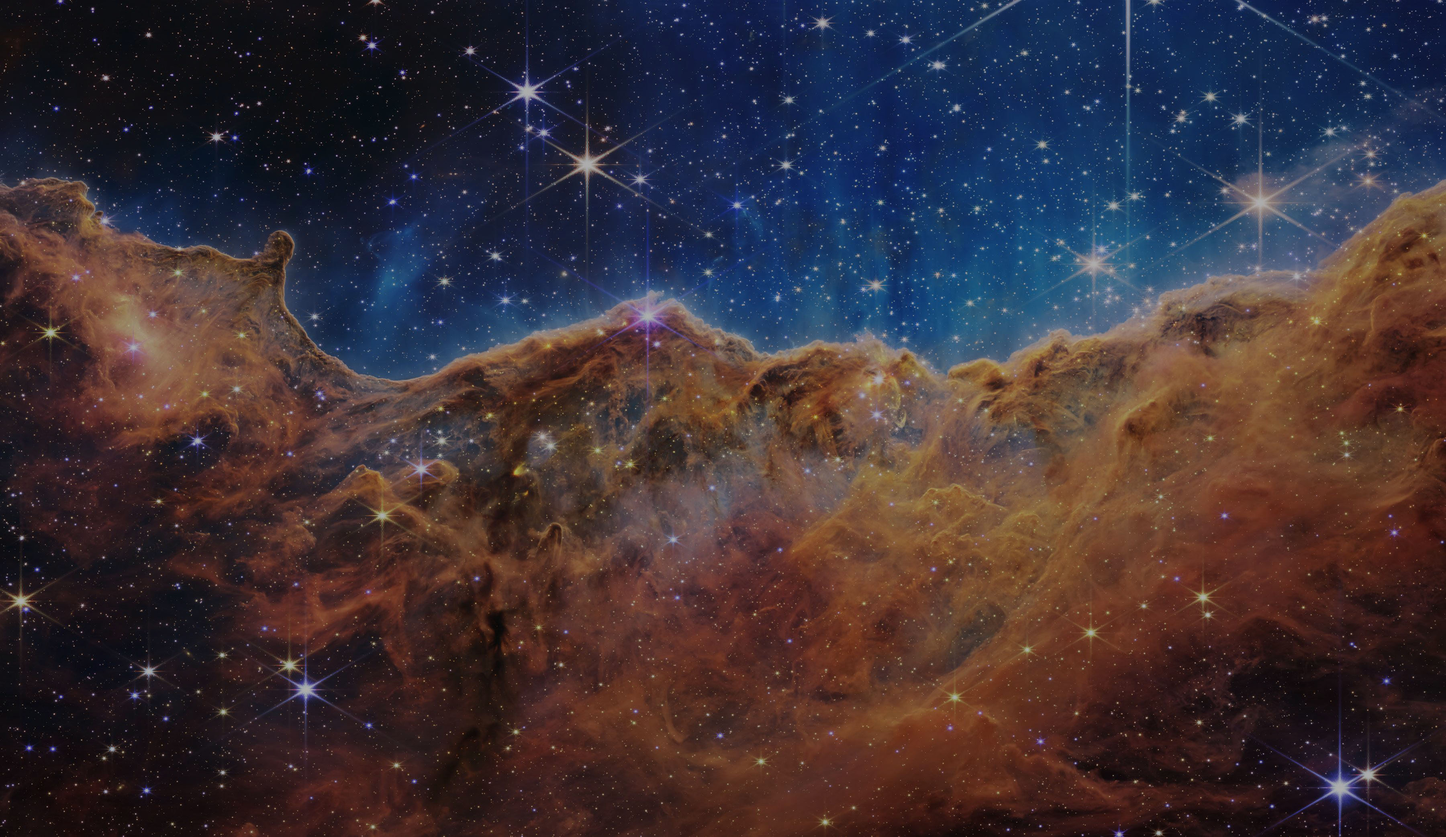
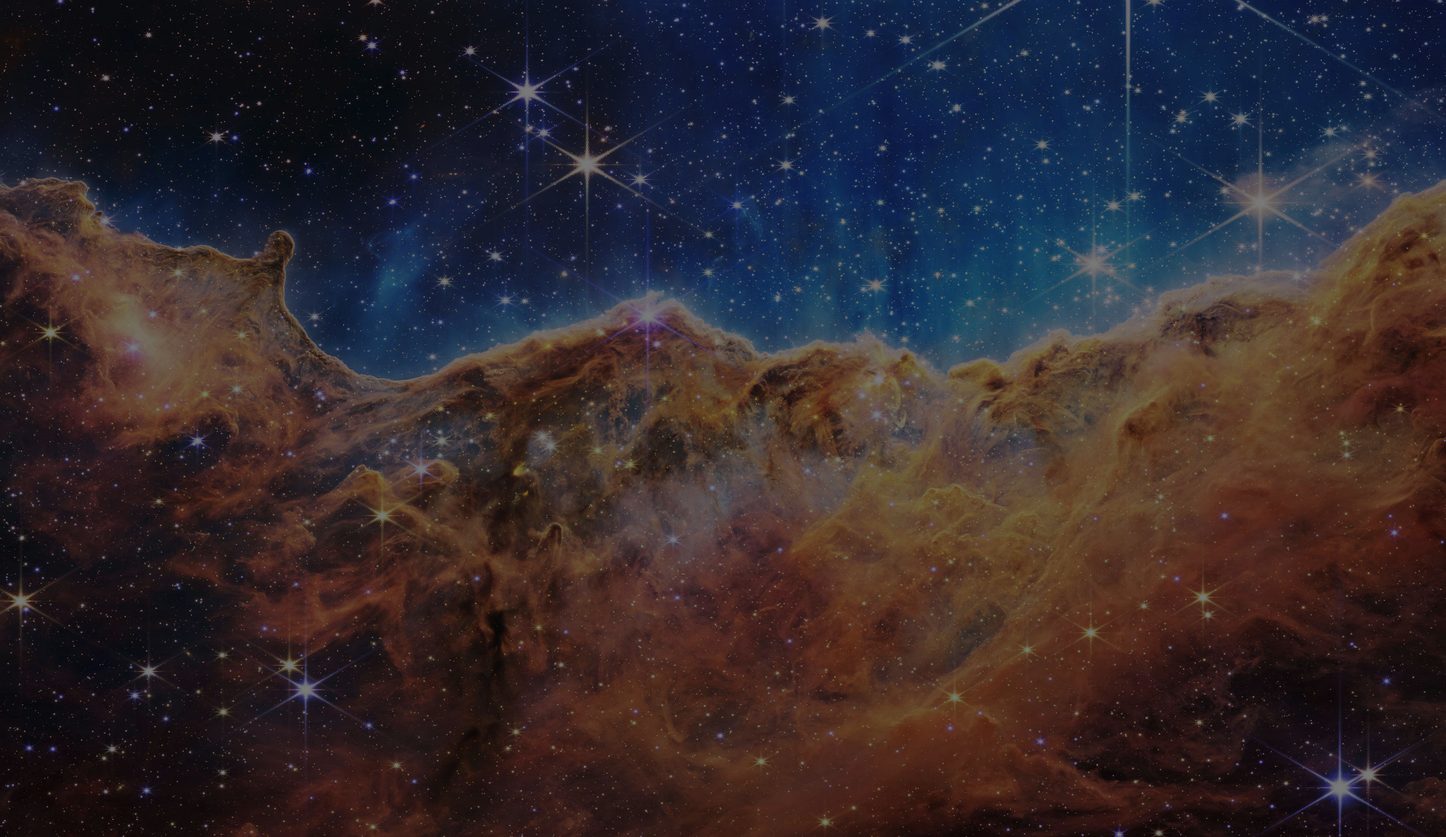
fin de pag principal II

diff --git a/index.html b/index.html
@@ -89,7 +89,7 @@
                 <h4 class="tituloConcept">Concept</h4>
             </div>
             <div>
-                <p class="cuerpoConcept">Lorem, ipsum dolor sit amet consectetur adipisicing elit. Quas eaque tenetur sed fugit sit a laboriosam suscipit? Distinctio libero accusantium perferendis ratione? Qui aliquam at assumenda. Eligendi sapiente eum nemo alias quae vero temporibus unde, est at quas architecto, distinctio error officiis iusto tempora et aperiam officia eius enim maxime voluptatibus quo! Quo, nam sit necessitatibus corporis quis enim iure pariatur doloribus animi natus mollitia amet repellendus voluptatum ea nesciunt facere voluptatem ratione aspernatur adipisci! Eligendi, itaque praesentium. Sequi cum reprehenderit at fuga, velit quos odit facere nihil? Nobis debitis ullam architecto, error necessitatibus dolorem consequatur rerum corrupti, quo ipsa et incidunt suscipit exercitationem molestiae labore asperiores beatae, quis doloribus id ratione eaque magni tenetur. Voluptatibus reprehenderit recusandae labore reiciendis consectetur tenetur vero iste fugiat sunt, distinctio, dolores odio ducimus. Quos consequatur temporibus facilis exercitationem esse odit atque aliquam voluptatem deserunt accusantium expedita quas, modi laboriosam. Sint quaerat laborum non.</p>
+                <p class="cuerpoConcept">Lorem ipsum dolor sit amet consectetur adipisicing elit. Doloribus cum reprehenderit odio debitis? Cumque non quaerat eligendi, officiis odit recusandae deserunt. Accusamus ab quia fuga doloribus aliquam? Labore necessitatibus a est sed iusto, porro provident laborum vel impedit cumque eum aspernatur magni. Soluta magnam esse ipsa enim quo culpa odit dolore dolor ducimus praesentium quisquam harum, quos facere id officia quis nisi delectus repellat? Eaque recusandae debitis qui veniam laborum laboriosam ipsam totam ipsa rerum fuga, sed quod, quaerat repellat eius incidunt quasi deleniti adipisci dolores repudiandae facilis nesciunt nemo dignissimos praesentium. Autem esse delectus ex est veritatis, corrupti optio!</p>
             </div>
             </div>
         </section>

diff --git a/style.css b/style.css
@@ -101,7 +101,8 @@ header .logo{
 
 .background1{
     z-index: 2;
-    background-image:url(./media/fondo\ universo\ nasa.jpg);
+    background-image: url(./media/fondo\ universo\ nasa.jpg);
+    filter: grayscale(20%);
     height: 984px;
     width: 100%;
     margin: -95px 0px 0px 0px;
@@ -388,7 +389,7 @@ header .logo{
 .containerConcept{
     height: auto;
     width: 100%;
-    background-image: linear-gradient(to bottom, rgb(0, 0, 0), rgba(88, 21, 0, 0.904), rgb(0, 0, 0));
+    background-image: linear-gradient(to bottom, rgba(0, 0, 0, 0.945), rgba(44, 44, 44, 0.904), rgba(0, 0, 0, 0.911));
     color: rgb(222, 222, 222);
     display: flex;
     justify-content: space-around;
@@ -396,9 +397,20 @@ header .logo{
 }
 
 .tituloConcept{
-    padding-top: 100px;
-    padding-bottom: 100px;
-    padding-left: 20px;
+    width: max-content;
+    color: rgb(222, 222, 222);
+    background-color: rgba(226, 226, 226, 0.178);
+    text-align: center;
+    margin-top: 100px;
+    margin-bottom: 100px;
+    margin-left: 20px;
+    padding: 10px 20px 20px 20px;
+    border: 1px solid rgba(241, 241, 241, 0.767);
+    border-top-left-radius: 4px;
+    border-top-right-radius: 20px;
+    border-bottom-left-radius: 20px;
+    border-bottom-right-radius: 4px;
+    box-shadow: 0px 6px 10px rgb(204, 204, 204);
 }
 
 .cuerpoConcept{
@@ -433,7 +445,7 @@ footer{
     padding-bottom: 10px;
 }
 .redes i:hover{
-    color: rgba(80, 0, 230, 0.929);
+    color: #380138;
 }
 
 #twitter{
